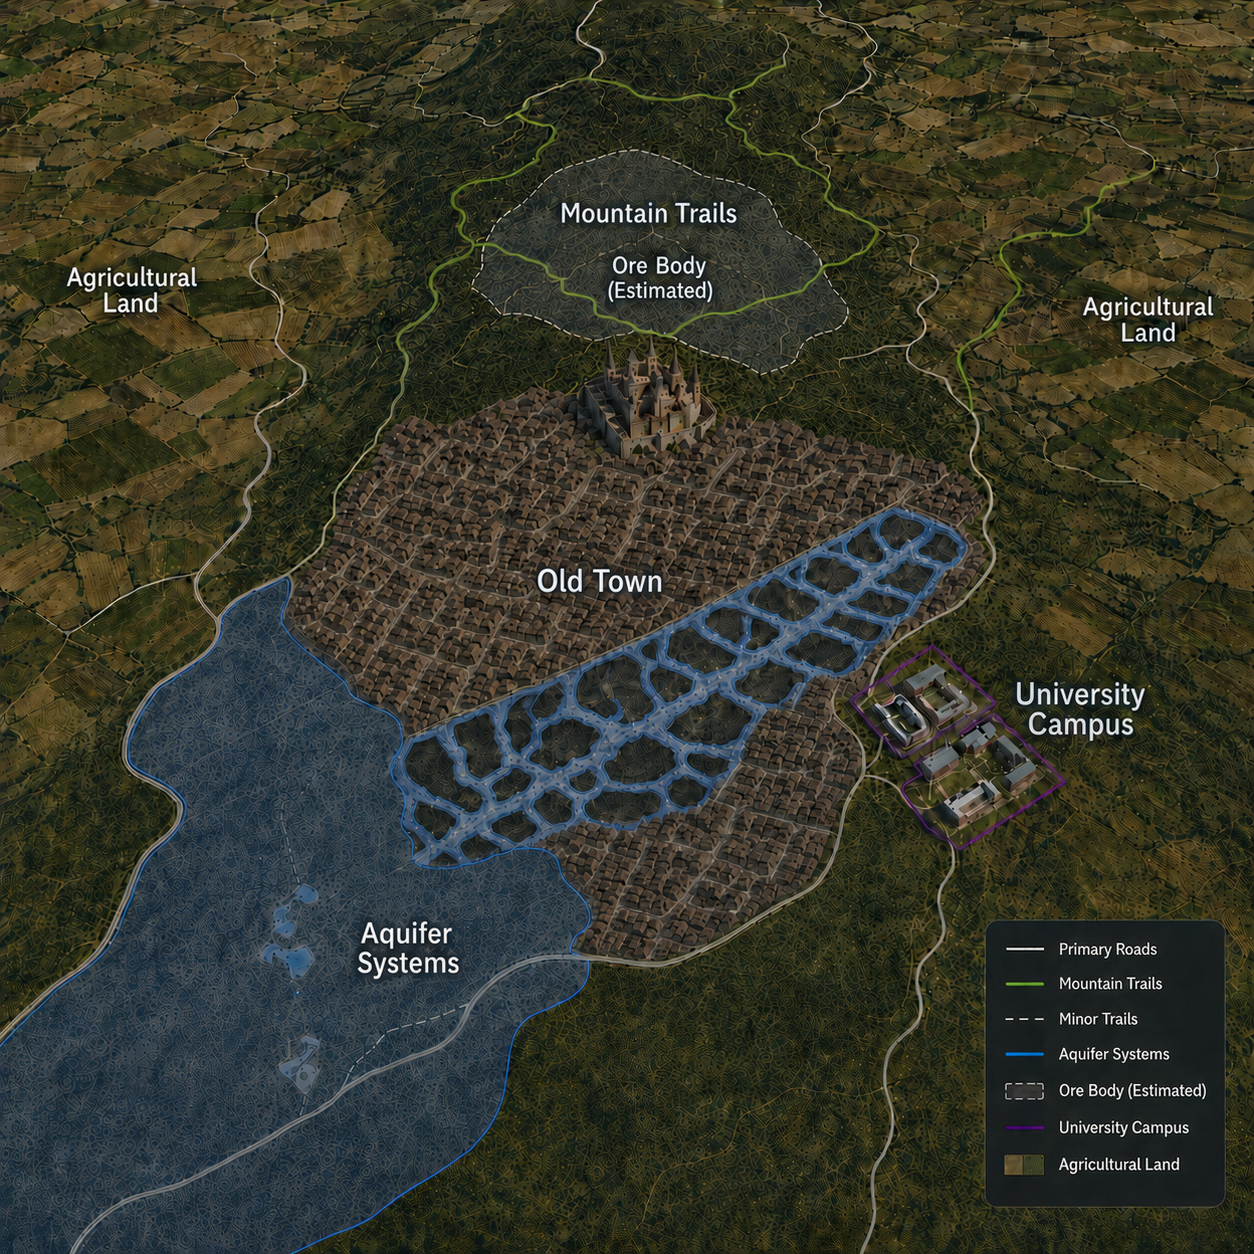
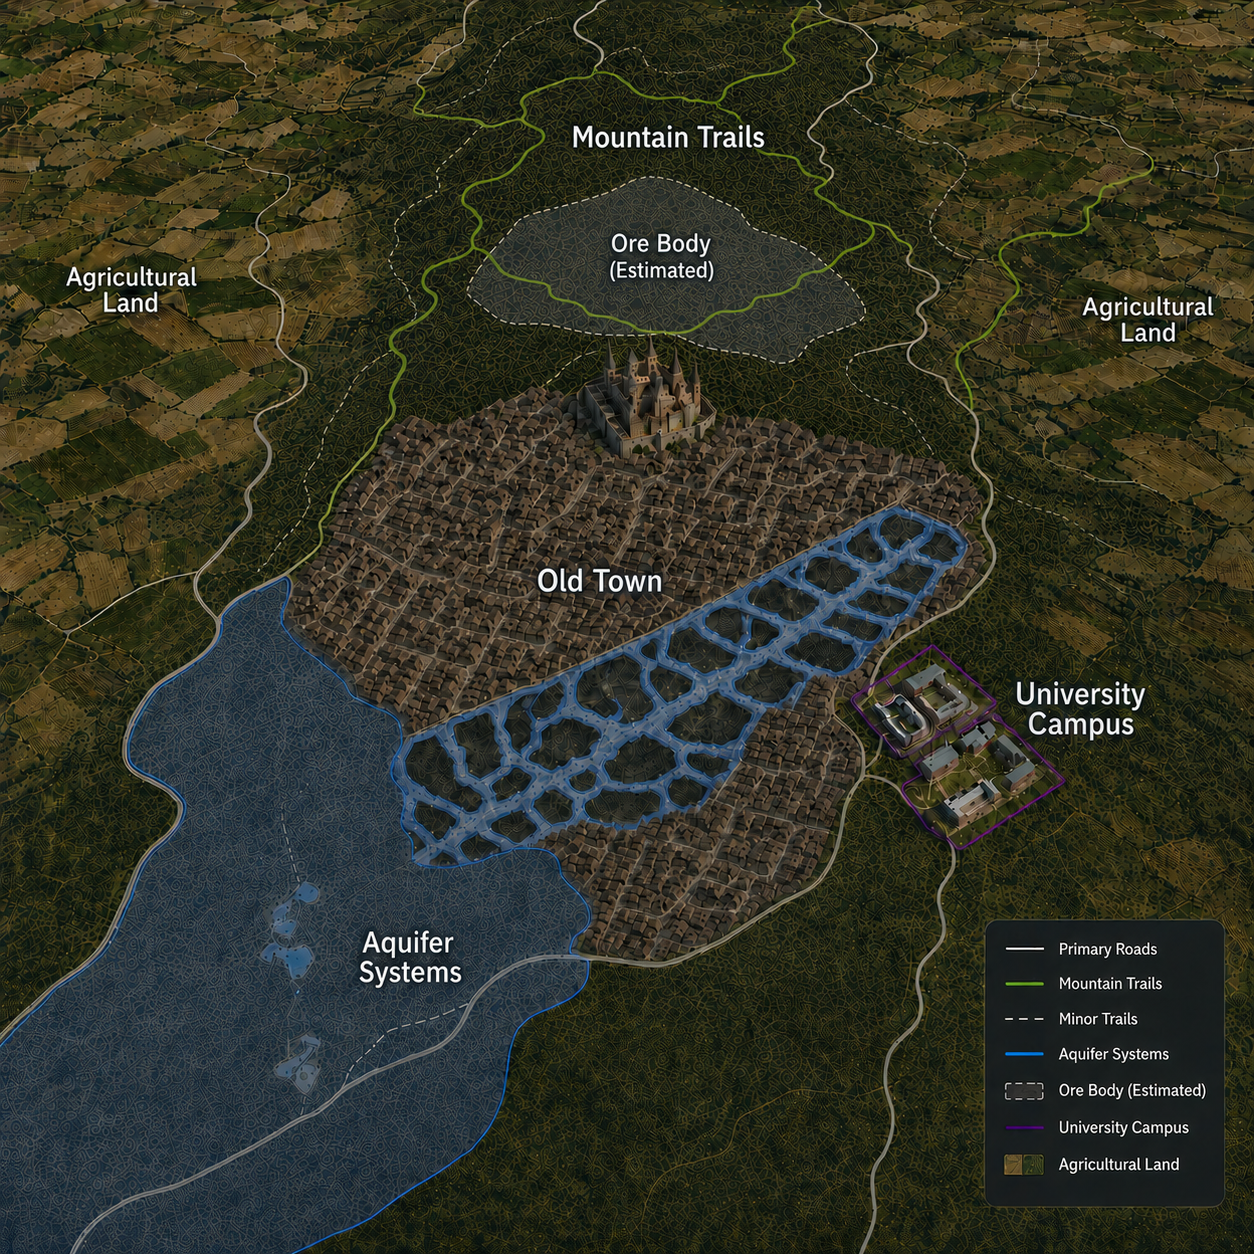
Fix Joint facility siting rules and realign no-go map overlays.
Wire full industrial scenario into JointView, enforce placement limits on both Developer and Joint maps after scenario lock, and update regional-map.png with recalibrated Mountain Trails and Ore Body zones.

diff --git a/src/components/map/DraggableRegionalMap.tsx b/src/components/map/DraggableRegionalMap.tsx
@@ -79,6 +79,7 @@ export const DraggableRegionalMap: React.FC<DraggableRegionalMapProps> = ({
   className,
 }) => {
   const isTechnical = mode === 'technical';
+  const enforceIndustrialLimits = Boolean(industrialScenario && scenarioLocked);
   const [internalIndustrial, setInternalIndustrial] = useState<PlacedIndustrialSymbol[]>([]);
   const placedIndustrial = placedIndustrialProp ?? internalIndustrial;
 
@@ -93,7 +94,7 @@ export const DraggableRegionalMap: React.FC<DraggableRegionalMapProps> = ({
   );
 
   const containerRef = useRef<HTMLDivElement>(null);
-  const [naturalSize, setNaturalSize] = useState({ w: 4, h: 3 });
+  const [naturalSize, setNaturalSize] = useState({ w: 1, h: 1 });
   const [containerSize, setContainerSize] = useState({ w: 0, h: 0 });
   const [draggingId, setDraggingId] = useState<string | null>(null);
   const [draggingCategory, setDraggingCategory] = useState<'industrial' | 'benefit' | null>(null);
@@ -155,7 +156,7 @@ export const DraggableRegionalMap: React.FC<DraggableRegionalMapProps> = ({
         }
         return;
       }
-      if (isTechnical && industrialScenario && scenarioLocked) {
+      if (enforceIndustrialLimits && industrialScenario) {
         const check = canPlaceIndustrialType(type, placedIndustrial, industrialScenario);
         if (!check.ok) {
           alert(check.message);
@@ -195,6 +196,7 @@ export const DraggableRegionalMap: React.FC<DraggableRegionalMapProps> = ({
       canPlaceAt,
       setPlacedIndustrial,
       isTechnical,
+      enforceIndustrialLimits,
       industrialScenario,
       scenarioLocked,
       placedIndustrial,
@@ -302,6 +304,14 @@ export const DraggableRegionalMap: React.FC<DraggableRegionalMapProps> = ({
 
   const placedBenefitCount = Object.keys(benefitPlacements).length;
 
+  const industrialChipEnabled = useCallback(
+    (type: IndustrialSymbolType) => {
+      if (!enforceIndustrialLimits || !industrialScenario) return true;
+      return canPlaceIndustrialType(type, placedIndustrial, industrialScenario).ok;
+    },
+    [enforceIndustrialLimits, industrialScenario, placedIndustrial]
+  );
+
   return (
     <div
       className={clsx(
@@ -326,25 +336,42 @@ export const DraggableRegionalMap: React.FC<DraggableRegionalMapProps> = ({
           Industrial chain (drag onto map):
         </span>
         <div className="flex flex-row flex-wrap gap-2">
-          {INDUSTRIAL_SYMBOLS.map(({ type, label, Icon, chipClass }) => (
+          {INDUSTRIAL_SYMBOLS.map(({ type, label, Icon, chipClass }) => {
+            const canDrag = industrialChipEnabled(type);
+            return (
             <div
               key={type}
-              draggable
+              draggable={canDrag}
               onDragStart={e => {
+                if (!canDrag) {
+                  e.preventDefault();
+                  return;
+                }
                 e.dataTransfer.setData(MAP_INDUSTRIAL_DRAG_TYPE, type);
                 e.dataTransfer.setData('text/plain', type);
                 e.dataTransfer.effectAllowed = 'copy';
               }}
               className={clsx(
-                'flex items-center gap-1.5 px-2 py-1 rounded-lg border text-[10px] font-bold cursor-grab active:cursor-grabbing shadow-sm select-none',
-                chipClass
+                'flex items-center gap-1.5 px-2 py-1 rounded-lg border text-[10px] font-bold shadow-sm select-none',
+                chipClass,
+                canDrag
+                  ? 'cursor-grab active:cursor-grabbing'
+                  : 'opacity-40 cursor-not-allowed'
               )}
-              title={`Drag ${label} to map`}
+              title={
+                canDrag
+                  ? `Drag ${label} to map`
+                  : enforceIndustrialLimits && industrialScenario
+                    ? canPlaceIndustrialType(type, placedIndustrial, industrialScenario).message ??
+                      `Cannot place ${label}`
+                    : `Drag ${label} to map`
+              }
             >
               <Icon size={14} strokeWidth={2.5} />
               {label}
             </div>
-          ))}
+            );
+          })}
         </div>
       </div>
 
@@ -398,7 +425,7 @@ export const DraggableRegionalMap: React.FC<DraggableRegionalMapProps> = ({
           <div
             ref={containerRef}
             className={clsx(
-              'relative w-full aspect-[4/3] mx-auto',
+              'relative w-full aspect-square mx-auto overflow-visible',
               compact ? 'max-w-full' : 'max-w-full max-h-[min(68vh,620px)]'
             )}
             onDragOver={handleMapDragOver}
@@ -530,17 +557,19 @@ export const DraggableRegionalMap: React.FC<DraggableRegionalMapProps> = ({
         <p>
           {isTechnical
             ? 'Lock scenario first, then site facilities per mine size, capacity, and facility tier.'
-            : 'Shaded zones = no-build areas — industrial symbols cannot be placed there.'}
+            : industrialScenario
+              ? 'Lock scenario first, then site facilities per mine size, capacity, and facility tier.'
+              : 'Shaded zones = no-build areas — industrial symbols cannot be placed there.'}
         </p>
-        {isTechnical && industrialScenario && scenarioLocked && (
+        {industrialScenario && scenarioLocked && (
           <p className="font-medium text-gray-700">
             Required: {formatFacilityPlacementSummary(placedIndustrial, industrialScenario)}
           </p>
         )}
-        {isTechnical && !scenarioLocked && (
+        {industrialScenario && !scenarioLocked && (
           <p className="text-amber-700">Lock scenario in Configuration before placing facilities.</p>
         )}
-        {!isTechnical && (
+        {!isTechnical && scenarioLocked && (
           <p>
             Drag industrial symbols from above or community benefits from the left; double-click or ✕
             to remove.

diff --git a/src/components/joint/JointView.tsx b/src/components/joint/JointView.tsx
@@ -1,4 +1,4 @@
-import React, { useState, useCallback, useEffect, useRef } from 'react';
+import React, { useState, useCallback, useEffect, useRef, useMemo } from 'react';
 import {
   JointNoBuildToolbar,
   type NoBuildAreaId,
@@ -13,7 +13,7 @@ import {
   getMaxNoBuildZonesForMineSizeKm2,
   canToggleNoBuildZone,
 } from '../../data/noBuildAreas';
-import type { MineSize } from '../../data/mitigationConstants';
+import type { MineSize, Capacity, AirTierId } from '../../data/mitigationConstants';
 
 /**
  * Joint negotiation: no-build toolbar, utility chart (left) + draggable regional map (right), developer controls below.
@@ -29,6 +29,18 @@ export const JointView: React.FC = () => {
     Partial<Record<CommunityBenefitId, BenefitPlacement>>
   >({});
   const [selectedSize, setSelectedSize] = useState<MineSize | null>(null);
+  const [selectedCapacity, setSelectedCapacity] = useState<Capacity | null>(null);
+  const [selectedFacilityId, setSelectedFacilityId] = useState<AirTierId | null>(null);
+  const [scenarioLocked, setScenarioLocked] = useState(false);
+
+  const industrialScenario = useMemo(() => {
+    if (!selectedSize || !selectedCapacity || !selectedFacilityId) return null;
+    return {
+      mineSizeKm2: selectedSize.value,
+      capacityMton: selectedCapacity.value,
+      facilityTier: selectedFacilityId,
+    };
+  }, [selectedSize, selectedCapacity, selectedFacilityId]);
 
   const maxNoBuildZones = selectedSize
     ? getMaxNoBuildZonesForMineSizeKm2(selectedSize.value)
@@ -65,8 +77,16 @@ export const JointView: React.FC = () => {
   );
 
   const handleScenarioStateChange = useCallback(
-    (s: { selectedSize: MineSize }) => {
+    (s: {
+      selectedSize: MineSize;
+      selectedCapacity: Capacity;
+      selectedFacilityId: AirTierId;
+      scenarioLocked: boolean;
+    }) => {
       setSelectedSize(s.selectedSize);
+      setSelectedCapacity(s.selectedCapacity);
+      setSelectedFacilityId(s.selectedFacilityId);
+      setScenarioLocked(s.scenarioLocked);
     },
     []
   );
@@ -188,6 +208,8 @@ export const JointView: React.FC = () => {
             unassignedBudget={unassignedBudget}
             onBenefitPlace={handleBenefitPlace}
             onBenefitRemove={handleBenefitRemove}
+            industrialScenario={industrialScenario}
+            scenarioLocked={scenarioLocked}
           />
         </div>
       </div>

diff --git a/src/components/map/NoBuildOverlays.tsx b/src/components/map/NoBuildOverlays.tsx
@@ -22,13 +22,23 @@ const ZONE_SHAPE: Record<
   campus: { rounded: 'rounded-[2rem]', borderStyle: 'solid' },
 };
 
+const ZONE_LABEL_STYLE: Partial<Record<SelectableNoBuildId, React.CSSProperties>> = {
+  mountain: { top: '2px', left: '50%', transform: 'translateX(-50%)' },
+  ore_body: { top: '2px', left: '4px' },
+};
+
+const DEFAULT_LABEL_STYLE: React.CSSProperties = { top: '2px', left: '4px' };
+
+const LABEL_CLASS =
+  'absolute z-10 text-[8px] font-bold text-red-900 bg-white/90 px-1 rounded leading-tight whitespace-nowrap shadow-sm';
+
 /** Bordered overlays aligned to regional-map.png (percent of map box). */
 export const NoBuildOverlays: React.FC<NoBuildOverlaysProps> = ({
   selectedNoBuildIds,
   highlightMismatchZoneIds = [],
   className,
 }) => (
-  <div className={clsx('pointer-events-none absolute inset-0', className)}>
+  <div className={clsx('pointer-events-none absolute inset-0 overflow-visible', className)}>
     {NO_BUILD_ZONE_RECTS.map((zone, index) => {
       const selected = selectedNoBuildIds.includes(zone.id);
       const mismatch = highlightMismatchZoneIds.includes(zone.id);
@@ -40,7 +50,7 @@ export const NoBuildOverlays: React.FC<NoBuildOverlaysProps> = ({
         <div
           key={`${zone.id}-${index}`}
           className={clsx(
-            'absolute transition-all duration-300 box-border',
+            'absolute transition-all duration-300 box-border overflow-visible',
             shape.rounded,
             shape.borderStyle === 'dashed' ? 'border-dashed' : 'border-solid',
             visible
@@ -57,7 +67,10 @@ export const NoBuildOverlays: React.FC<NoBuildOverlaysProps> = ({
           aria-hidden={!visible}
         >
           {showLabel && (
-            <span className="absolute top-0.5 left-1 text-[8px] font-bold text-red-900 bg-white/80 px-1 rounded leading-tight max-w-[90%] truncate">
+            <span
+              className={LABEL_CLASS}
+              style={ZONE_LABEL_STYLE[zone.id] ?? DEFAULT_LABEL_STYLE}
+            >
               {getNoBuildAreaLabel(zone.id)}
             </span>
           )}

diff --git a/src/components/CommunityView.tsx b/src/components/CommunityView.tsx
@@ -158,13 +158,22 @@ export const CommunityView: React.FC = () => {
     [selectedBenefitIds]
   );
 
-  const prevWinnerRef = useRef<MineSizeId | null>(null);
+  const prevWinnerRef = useRef<MineSizeId | null | undefined>(undefined);
   useEffect(() => {
-    if (prevWinnerRef.current !== null && prevWinnerRef.current !== winnerId) {
+    if (prevWinnerRef.current !== undefined && prevWinnerRef.current !== winnerId) {
       setSelectedNoBuildIds([]);
     }
     prevWinnerRef.current = winnerId;
   }, [winnerId]);
+
+  /** Clear or trim selections when the winning size disallows or limits zones (e.g. 8 km² → 0). */
+  useEffect(() => {
+    setSelectedNoBuildIds(prev => {
+      if (maxNoBuildZones <= 0 && prev.length > 0) return [];
+      if (prev.length > maxNoBuildZones) return prev.slice(0, maxNoBuildZones);
+      return prev;
+    });
+  }, [maxNoBuildZones]);
 
   useEffect(() => {
     setBenefitSlots(prev => {
@@ -563,7 +572,7 @@ export const CommunityView: React.FC = () => {
                         .join(', ')}
                 </span>
               </div>
-              <div className="relative w-full aspect-[4/3] bg-gray-100">
+              <div className="relative w-full aspect-square bg-gray-100 overflow-visible">
                 <img
                   src="/regional-map.png"
                   alt="Regional map"

diff --git a/src/components/map/noBuildZones.ts b/src/components/map/noBuildZones.ts
@@ -9,12 +9,14 @@ export interface NoBuildZoneRect {
   height: number;
 }
 
-/** Mountain trails sit in the north-center hills, directly above the ore-body box. */
+/** Aligned to regional-map.png (1254×1254, updated labels). */
 export const NO_BUILD_ZONE_RECTS: NoBuildZoneRect[] = [
-  { id: 'mountain', top: 2, left: 30, width: 40, height: 9 },
-  { id: 'ore_body', top: 12, left: 38, width: 24, height: 17 },
-  { id: 'oldtown', top: 42, left: 34, width: 28, height: 24 },
-  { id: 'aquifer', top: 58, left: 0, width: 55, height: 42 },
+  /** Includes baked “Mountain Trails” label in the north green band. */
+  { id: 'mountain', top: 0, left: 28, width: 44, height: 13 },
+  /** Gray ore fill only — starts below Mountain Trails text. */
+  { id: 'ore_body', top: 14, left: 34, width: 32, height: 17 },
+  { id: 'oldtown', top: 35, left: 30, width: 32, height: 27 },
+  { id: 'aquifer', top: 50, left: 0, width: 58, height: 50 },
   { id: 'campus', top: 52, left: 62, width: 38, height: 38 },
 ];
 

diff --git a/src/components/map/AdminNegotiationMap.tsx b/src/components/map/AdminNegotiationMap.tsx
@@ -77,7 +77,7 @@ export const AdminNegotiationMap: React.FC<AdminNegotiationMapProps> = ({
         <div className="px-3 py-2 bg-gray-50 border-b">
           <span className="text-sm font-bold text-gray-800">Siting vs no-go overlap</span>
         </div>
-        <div className="relative w-full aspect-[4/3] bg-gray-100">
+        <div className="relative w-full aspect-square bg-gray-100">
           <img
             src="/regional-map.png"
             alt="Regional map analysis"

diff --git a/src/components/map/RegionalMapPreview.tsx b/src/components/map/RegionalMapPreview.tsx
@@ -26,7 +26,7 @@ export const RegionalMapPreview: React.FC<RegionalMapPreviewProps> = ({
           : selectedNoBuildIds.join(', ')}
       </span>
     </div>
-    <div className="relative w-full aspect-[4/3] bg-gray-100">
+    <div className="relative w-full aspect-square bg-gray-100">
       <img
         src="/regional-map.png"
         alt="Regional map"

diff --git a/docs/regional-map-no-go-zones.md b/docs/regional-map-no-go-zones.md
@@ -27,11 +27,12 @@ Mountain Trails and Ore Body are **separate** selections (not merged).
 
 Overlays are defined in `src/components/map/noBuildZones.ts` and rendered by `NoBuildOverlays.tsx`.
 
-**Alignment notes (regional-map.png):**
+**Alignment notes (regional-map.png, 1254×1254 updated artwork):**
 
-- **Ore Body** — compact dashed-border box on the gray dotted ore outline (upper center); does not overlap the mountain-trails overlays.
-- **Mountain Trails** — north-center band directly above the ore body (not the side agricultural fields).
-- **Old Town** — centered on the Old Town sign and built-up cluster (middle of the map).
+- **Mountain Trails** — north green band including the map label (`top` 0%, `height` 12%).
+- **Ore Body** — gray dashed ore outline below the Mountain Trails text (`top` 13%, `height` 17%).
+- **Old Town** — centered on the built-up cluster (`top` 35%, `height` 27%).
+- **Aquifer Systems** — lower-left blue zone (`top` 50%, `height` 50%).
 
 ---
 

diff --git a/docs/facility-siting-rules.md b/docs/facility-siting-rules.md
@@ -9,7 +9,7 @@ After locking the scenario, technical teams drag industrial facility icons onto 
 ## 1. When rules apply
 
 - **Lock scenario** in Configuration before placing facilities.
-- Rules run on the **Developer** map only (not Joint community-benefit map).
+- Rules apply on the **Developer** and **Joint** maps after scenario lock.
 - **Export** (`mining_simulation_results.csv`) is blocked until all required sites are placed and valid.
 
 ---
